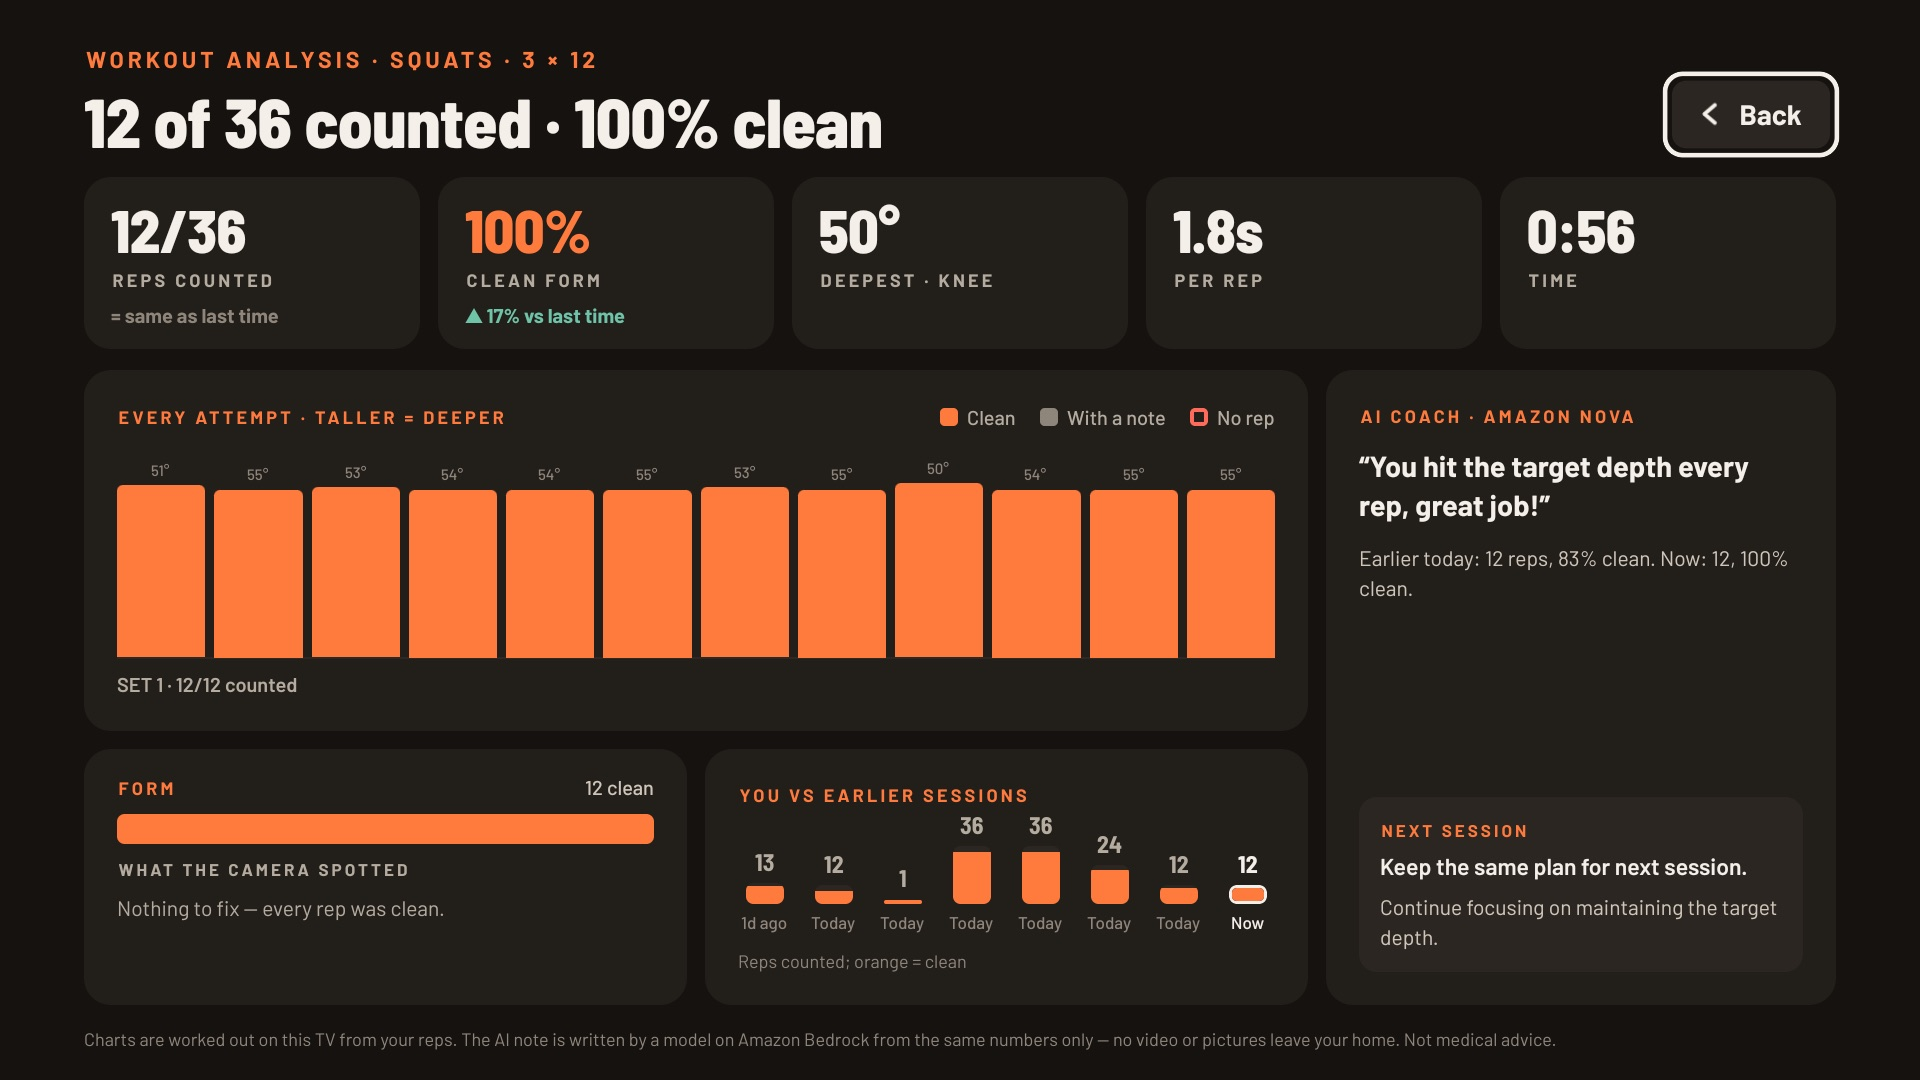
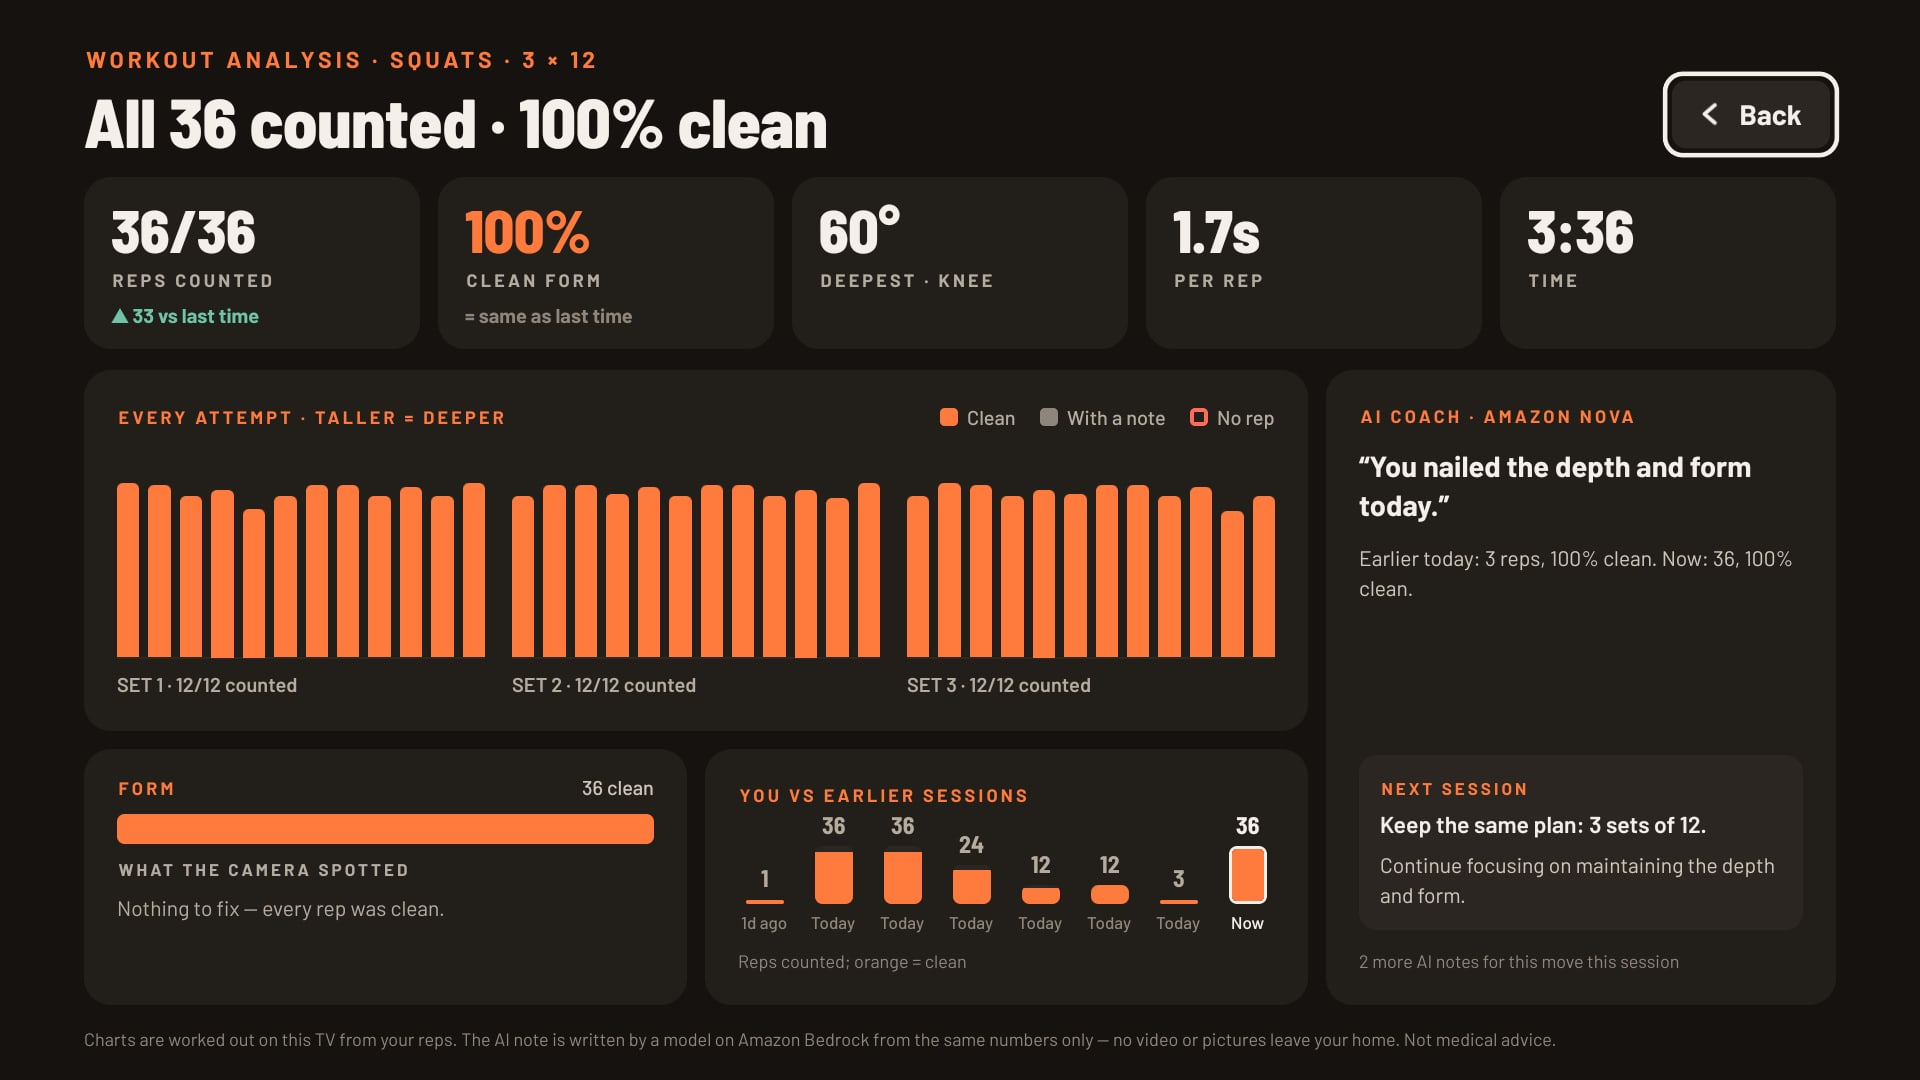
README screenshots from our own gym footage; replay bench can dump per-frame poses
New stick captures (live set, analysis, progress, pick a move, pairing) with our gym clips as the
live picture, replacing the stock squat clip; old screenshot with it removed. replay.html?dump=1
also returns every frame's pose points and when each rep was reported (used for the demo video).

diff --git a/apps/camera/src/replay.ts b/apps/camera/src/replay.ts
@@ -27,6 +27,8 @@ const until = Number(params.get('until') ?? 'Infinity');
 const repeat = Math.max(1, Number(params.get('repeat') ?? '1'));
 const [traceFrom, traceTo] = (params.get('trace') ?? '-1--1').split('-').map(Number) as [number, number];
 const model = params.get('model') === 'full' ? 'full' : 'lite';
+/** Optional: also return every frame's pose points (?dump=1), e.g. to draw a demo video from. */
+const dump = params.get('dump') === '1';
 
 const video = document.getElementById('video') as HTMLVideoElement;
 const overlay = document.getElementById('overlay') as HTMLCanvasElement;
@@ -61,6 +63,10 @@ async function main(): Promise<void> {
   });
   const detector = new RepDetector(exercise as RepExercise);
   const reps: RepResult[] = [];
+  /** When each rep was reported (ms of video), parallel to `reps`. */
+  const repAt: number[] = [];
+  /** ?dump=1: [t, x0, y0, v0, x1, y1, v1, …] per frame, for the 33 MediaPipe points. */
+  const poses: number[][] = [];
   let frames = 0;
   let posed = 0;
   let upright = 0;
@@ -93,6 +99,7 @@ async function main(): Promise<void> {
     frames++;
     const pose = result.landmarks[0];
     ctx.clearRect(0, 0, overlay.width, overlay.height);
+    if (dump) poses.push(pose ? [t, ...pose.flatMap((p) => [+p.x.toFixed(4), +p.y.toFixed(4), +(p.visibility ?? 0).toFixed(2)])] : [t]);
     if (!pose) continue;
     posed++;
     ctx.strokeStyle = '#ff7a3d';
@@ -140,6 +147,7 @@ async function main(): Promise<void> {
     if (update.rep) {
       const rep = update.rep;
       reps.push(rep);
+      repAt.push(t);
       countEl.textContent = String(rep.count);
       const item = document.createElement('li');
       item.textContent = `${time.toFixed(1)}s · ${rep.verdict.toUpperCase()} · ${Math.round(rep.bottom)}° · ${rep.cues.join(' / ') || 'clean'}`;
@@ -162,7 +170,10 @@ async function main(): Promise<void> {
     tiltMedian: tilts.length ? Math.round(tilts.sort((a, b) => a - b)[Math.floor(tilts.length / 2)]!) : null,
     timeline: timeline.join(' '),
     trace,
-    reps: reps.map((r) => ({
+    reps: reps.map((r, i) => ({
+      at: repAt[i],
+      count: r.count,
+      counted: r.counted,
       verdict: r.verdict,
       bottomDeg: Math.round(r.bottom),
       sec: +(r.durationMs / 1000).toFixed(2),
@@ -177,6 +188,7 @@ async function main(): Promise<void> {
         n: r.feet.frames,
       },
     })),
+    ...(dump ? { size: [video.videoWidth, video.videoHeight], poses } : {}),
   };
   window.spotterResult = summary;
   resultEl.textContent = JSON.stringify(summary, null, 1);

diff --git a/README.md b/README.md
@@ -19,7 +19,7 @@
 
 ## On a real Fire TV Stick
 
-Screenshots from the Fire TV Stick, taken over ADB (the live picture is a [Wikimedia Commons squat demonstration](https://commons.wikimedia.org/wiki/File:Squat_-_exercise_demonstration_video.webm) played as the phone's camera).
+Screenshots from the Fire TV Stick, taken over ADB. The live picture is our own gym footage (filmed with a friend, who agreed to it), played through the phone page in place of the camera.
 
 | | |
 |---|---|
